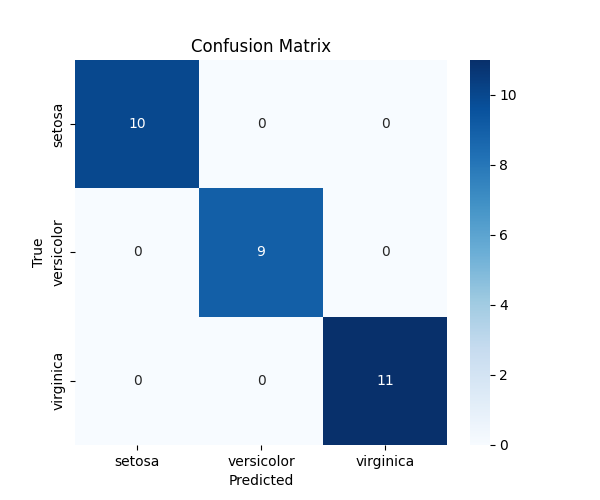
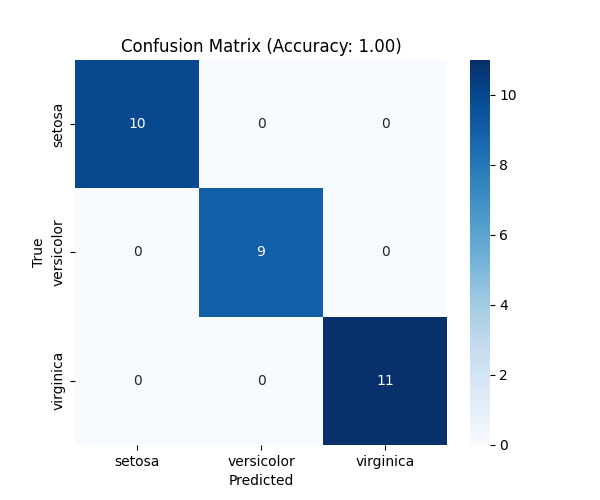
7th commit

Changed region(s): [[0.21, 0.06, 0.66, 0.12]]

diff --git a/src/train.py b/src/train.py
@@ -1,41 +1,71 @@
+# import argparse
+# import os
+# import matplotlib.pyplot as plt
+# import seaborn as sns
 # from sklearn.datasets import load_iris
 # from sklearn.model_selection import train_test_split
-# from sklearn.tree import DecisionTreeClassifier, plot_tree
+# from sklearn.tree import DecisionTreeClassifier
 # from sklearn.metrics import accuracy_score, confusion_matrix
 
-# iris = load_iris()
-# X = iris.data      # shape (150, 4)
-# y = iris.target    # shape (150,)
-# print(iris.feature_names, iris.target_names)
+# def main(test_size: float, random_state: int):
+#     # Load dataset
+#     iris = load_iris()
+#     X, y = iris.data, iris.target
 
-# X_train, X_test, y_train, y_test = train_test_split(X, y, test_size=0.2, random_state=42)
+#     # Train/test split
+#     X_train, X_test, y_train, y_test = train_test_split(
+#         X, y, test_size=test_size, random_state=random_state
+#     )
 
-# model = DecisionTreeClassifier(random_state=42)
-# model.fit(X_train, y_train)
+#     # Train model
+#     model = DecisionTreeClassifier(random_state=random_state)
+#     model.fit(X_train, y_train)
 
-# y_pred = model.predict(X_test)
-# print("Predictions:", y_pred[:5])
-# print("True labels:", y_test[:5])
+#     # Predictions
+#     y_pred = model.predict(X_test)
 
-# accuracy = accuracy_score(y_test, y_pred)
-# print("Accuracy:", accuracy)
+#     # Accuracy
+#     accuracy = accuracy_score(y_test, y_pred)
+#     print(f"Accuracy: {accuracy:.4f}")
 
-# confusion = confusion_matrix(y_test, y_pred)
-# print ("Confusion matrix:\n", 
-#        f"{iris.target_names}\n", confusion)
+#     # Confusion matrix
+#     cm = confusion_matrix(y_test, y_pred)
 
-# print(plot_tree(model))
+#     # Ensure output directory exists
+#     output_dir = "D://UNI//AI//iris-classifier//outputs"
+#     os.makedirs(output_dir, exist_ok=True)
 
-# src/train.py
+#     # Save confusion matrix figure
+#     plt.figure(figsize=(6, 5))
+#     sns.heatmap(cm, annot=True, fmt="d", cmap="Blues",
+#                 xticklabels=iris.target_names,
+#                 yticklabels=iris.target_names)
+#     plt.xlabel("Predicted")
+#     plt.ylabel("True")
+#     plt.title("Confusion Matrix")
+#     plt.savefig(os.path.join(output_dir, "confusion_matrix.png"))
+#     plt.close()
+
+# if __name__ == "__main__":
+#     parser = argparse.ArgumentParser(description="Train Decision Tree on Iris dataset")
+#     parser.add_argument("--test-size", type=float, default=0.2,
+#                         help="Proportion of test data (default: 0.2)")
+#     parser.add_argument("--random-state", type=int, default=42,
+#                         help="Random state for reproducibility (default: 42)")
+
+#     args = parser.parse_args()
+#     main(args.test_size, args.random_state)
 
 import argparse
 import os
 import matplotlib.pyplot as plt
 import seaborn as sns
+import joblib  # for saving the model
 from sklearn.datasets import load_iris
 from sklearn.model_selection import train_test_split
 from sklearn.tree import DecisionTreeClassifier
 from sklearn.metrics import accuracy_score, confusion_matrix
+
 
 def main(test_size: float, random_state: int):
     # Load dataset
@@ -61,9 +91,13 @@ def main(test_size: float, random_state: int):
     # Confusion matrix
     cm = confusion_matrix(y_test, y_pred)
 
-    # Ensure output directory exists
-    output_dir = "D://UNI//AI//iris-classifier//outputs"
+    # Ensure output directory exists (relative path)
+    output_dir = "outputs"
     os.makedirs(output_dir, exist_ok=True)
+
+    # Save trained model
+    model_path = os.path.join(output_dir, "model.joblib")
+    joblib.dump(model, model_path)
 
     # Save confusion matrix figure
     plt.figure(figsize=(6, 5))
@@ -72,9 +106,10 @@ def main(test_size: float, random_state: int):
                 yticklabels=iris.target_names)
     plt.xlabel("Predicted")
     plt.ylabel("True")
-    plt.title("Confusion Matrix")
+    plt.title(f"Confusion Matrix (Accuracy: {accuracy:.2f})")
     plt.savefig(os.path.join(output_dir, "confusion_matrix.png"))
     plt.close()
+
 
 if __name__ == "__main__":
     parser = argparse.ArgumentParser(description="Train Decision Tree on Iris dataset")
